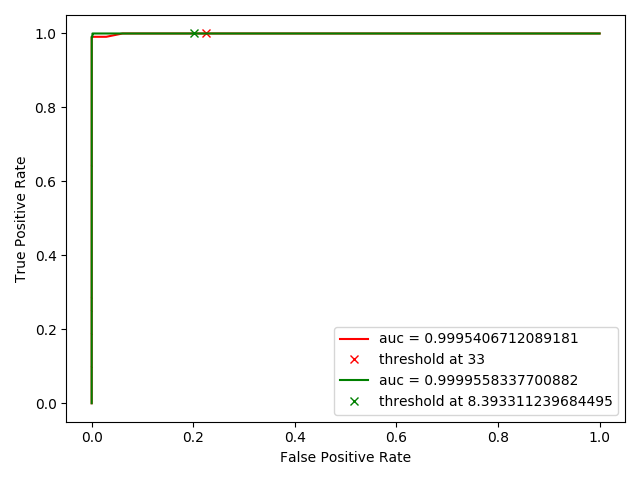
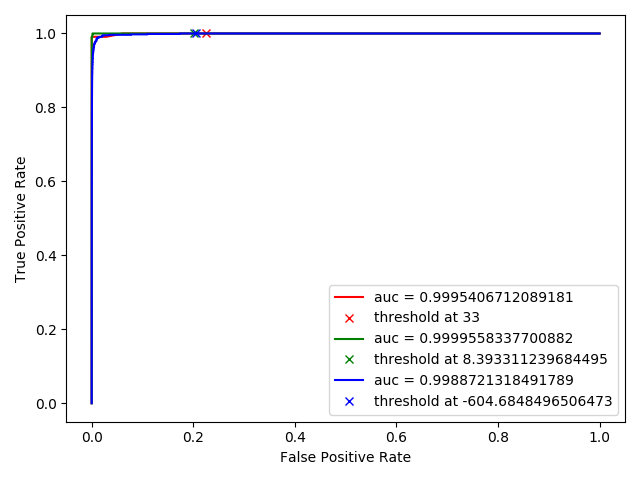
updated flashbulbs, some look better than others

diff --git a/hw4/src/main.py b/hw4/src/main.py
@@ -124,8 +124,10 @@ def plot_roc(key_map, color):
   plt.plot(fpr, tpr, color=color, label="auc = {}".format(auc))
   plt.plot(fpr[threshold_index], tpr[threshold_index], "x", color=color,
            label="threshold at {}".format(thresholds[threshold_index]))
+  
+  tt_pos, tf_pos = h.get_positives(key_map, thresholds[threshold_index])
 
-  return auc
+  return auc, tt_pos, tf_pos
 
 def plot_flashbulb(master_flashbulb_list, long_flashbulb_list, short_flashbulb_list, threshold, pos_color, neg_color):
   long_df = pd.DataFrame(long_flashbulb_list, columns=[
@@ -147,9 +149,9 @@ def plot_flashbulb(master_flashbulb_list, long_flashbulb_list, short_flashbulb_l
       short_df["length"]), statistics.median(short_df["score"])
 
   plt.scatter(m_short_len, m_short_score,
-           marker="x", s=50, label="A: ({},{})".format(m_short_len, m_short_score))
+              marker="x", color="red", s=50, label="A: ({},{})".format(m_short_len, m_short_score))
   plt.scatter(m_long_len, m_long_score,
-              marker="x", s=50, label="B: ({},{})".format(m_long_len, m_long_score))
+              marker="x", color="red", s=50, label="B: ({},{})".format(m_long_len, m_long_score))
   
   m_slope = (m_long_score - m_short_score) / (m_long_len - m_short_len)
   m_intercept = m_long_score - (m_slope * m_long_len)
@@ -158,12 +160,56 @@ def plot_flashbulb(master_flashbulb_list, long_flashbulb_list, short_flashbulb_l
   p_y = (m_slope * p_x) + m_intercept
   p_intercept = p_y - (1 / m_slope * p_x)
 
-  plt.scatter(p_x, p_y,
-              marker="x", s=50, label="20%: ({},{})".format(p_x, p_y))
-
-  x = np.linspace(-500, 9500, 1000)
+  x = np.linspace(-1000, 9000, 1000)
   plt.plot(x, (m_slope * x) + m_intercept)
   plt.plot(x, (-1 / m_slope * x) - p_intercept)
+
+  plt.ylabel("Markov Score")
+  plt.xlabel("ORF Length")
+  plt.xlim(-1000, 9000)
+  plt.ylim(-1000, 2500)
+  plt.legend()
+  plt.tight_layout()
+  plt.savefig(c.results_folder + "flashbulb" + c.png_exten)
+  plt.close()
+
+  # plot the full dataset now
+  master_df = pd.DataFrame(master_flashbulb_list, columns=[
+                           "length", "score", "match"])
+  
+  master_colors = [
+      pos_color if match else neg_color for match in master_df["match"]]
+  
+  plt.scatter(master_df["length"], master_df["score"], c=master_colors, s=15)
+
+  plt.axvline(x=c.short_threshold, color='b', linestyle=":")
+  plt.axvline(x=c.long_threshold, color='b', linestyle=":")
+  plt.plot(x, (m_slope * x) + m_intercept)
+  plt.plot(x, (-1 / m_slope * x) - p_intercept)
+
+  plt.ylabel("Markov Score")
+  plt.xlabel("ORF Length")
+  plt.xlim(-1000, 9000)
+  plt.ylim(-1000, 2500)
+  plt.tight_layout()
+  plt.savefig(c.results_folder + "master_flashbulb" + c.png_exten)
+  plt.close()
+
+  return m_slope, p_intercept
+
+
+def get_combined_score(master_flashbulb_list, slope, intercept):
+  result = []
+  df = pd.DataFrame(master_flashbulb_list, columns=[
+      "length", "score", "match"])
+  
+  for row in df.iterrows():
+    x = row[1]["length"]
+
+    y = ((-1 / slope) * x) - intercept
+    result.append([row[1]["score"] - y, row[1]["match"]])
+
+  return result
 
 def main():
   fasta_list = h.process_fasta(c.genome_file, c.fna_exten)
@@ -276,7 +322,6 @@ def main():
     overall_output.write("\tscore: {}".format(
         first_long_score_map[long_start]))
     overall_output.write("\tmatch: {}".format(first_long_matches[i]))
-
   overall_output.write("\n")
 
   for i, short_start in enumerate(first_short_score_map.keys()):
@@ -286,7 +331,6 @@ def main():
     overall_output.write("\tscore: {}".format(
         first_short_score_map[short_start]))
     overall_output.write("\tmatch: {}".format(first_short_matches[i]))
-
   overall_output.write("\n")
 
   # generating report info step
@@ -298,10 +342,7 @@ def main():
   long_flashbulb_list = []
   short_flashbulb_list = []
 
-  trusted_keys = trusted_orf_seq_map.keys()
-  short_keys = short_orf_seq_map.keys()
-
-  for start in trusted_keys:
+  for start in trusted_orf_seq_map.keys():
     loc = trusted_orf_loc_map[start]
     length = loc[1] - loc[0] + 1
     seq = trusted_orf_seq_map[start]
@@ -313,7 +354,7 @@ def main():
     roc_score_map.append([score, match])
     long_flashbulb_list.append([length, score, match])
 
-  for start in short_keys:
+  for start in short_orf_seq_map.keys():
     loc = short_orf_loc_map[start]
     length = loc[1] - loc[0] + 1
     if length < 4:
@@ -346,23 +387,22 @@ def main():
     master_score_map.append([score, match])
     master_flashbulb_list.append([length, score, match])
 
-  plot_flashbulb(master_flashbulb_list, long_flashbulb_list, short_flashbulb_list, 0.20, "orange", "blue")
-  plt.ylabel("Markov Score")
-  plt.xlabel("ORF Length")
-  plt.xlim(-1000, 9000)
-  plt.ylim(-1000, 2500)
-  plt.legend()
-  plt.tight_layout()
-  plt.savefig(c.results_folder + "flashbulb" + c.png_exten)
-  plt.close()
+  slope, intercept = plot_flashbulb(master_flashbulb_list, long_flashbulb_list, short_flashbulb_list, 0.20, "orange", "blue")
 
-  length_auc = plot_roc(roc_length_map, "red")
-  score_auc = plot_roc(roc_score_map, "green")
-  # flashbulb_auc = plot_roc(master_map, "blue")
+  combined_map = get_combined_score(master_flashbulb_list, slope, intercept)
+  length_auc, length_t, length_f = plot_roc(roc_length_map, "red")
+  score_auc, score_t, score_f = plot_roc(roc_score_map, "green")
+  combined_auc, combined_t, combined_f = plot_roc(combined_map, "blue")
 
-  overall_output.write("\nlength_auc: {}\n".format(length_auc))
-  overall_output.write("\nscore_auc: {}\n".format(score_auc))
-  # overall_output.write("\nflashbulb_auc: {}\n".format(flashbulb_auc))
+  overall_output.write("\nlength auc: {}\n".format(length_auc))
+  overall_output.write(
+      "\nlength true, false positives: {}, {}\n".format(length_t, length_f))
+  overall_output.write("\nscore auc: {}\n".format(score_auc))
+  overall_output.write(
+      "\nscore true, false positives: {}, {}\n".format(score_t, score_f))
+  overall_output.write("\ncombined auc: {}\n".format(combined_auc))
+  overall_output.write(
+      "\ncombined true, false positives: {}, {}\n".format(combined_t, combined_f))
   overall_output.close()
 
   plt.ylabel("True Positive Rate")

diff --git a/hw4/src/helper.py b/hw4/src/helper.py
@@ -95,3 +95,18 @@ def count_kmers(k, seq_list):
 def one_format_interval(interval):
   return list(np.array(interval) + 1)
 
+def get_positives(key_map, threshold):
+
+  threshold_dict = []
+  non_threshold_dict = []
+
+  for item in key_map:
+    if item[0] >= threshold:
+      threshold_dict.append(item[1])
+    else:
+      non_threshold_dict.append(item[1])
+
+  true_positives = sum(threshold_dict)
+  false_positives = len(threshold_dict) - true_positives
+
+  return true_positives, false_positives
